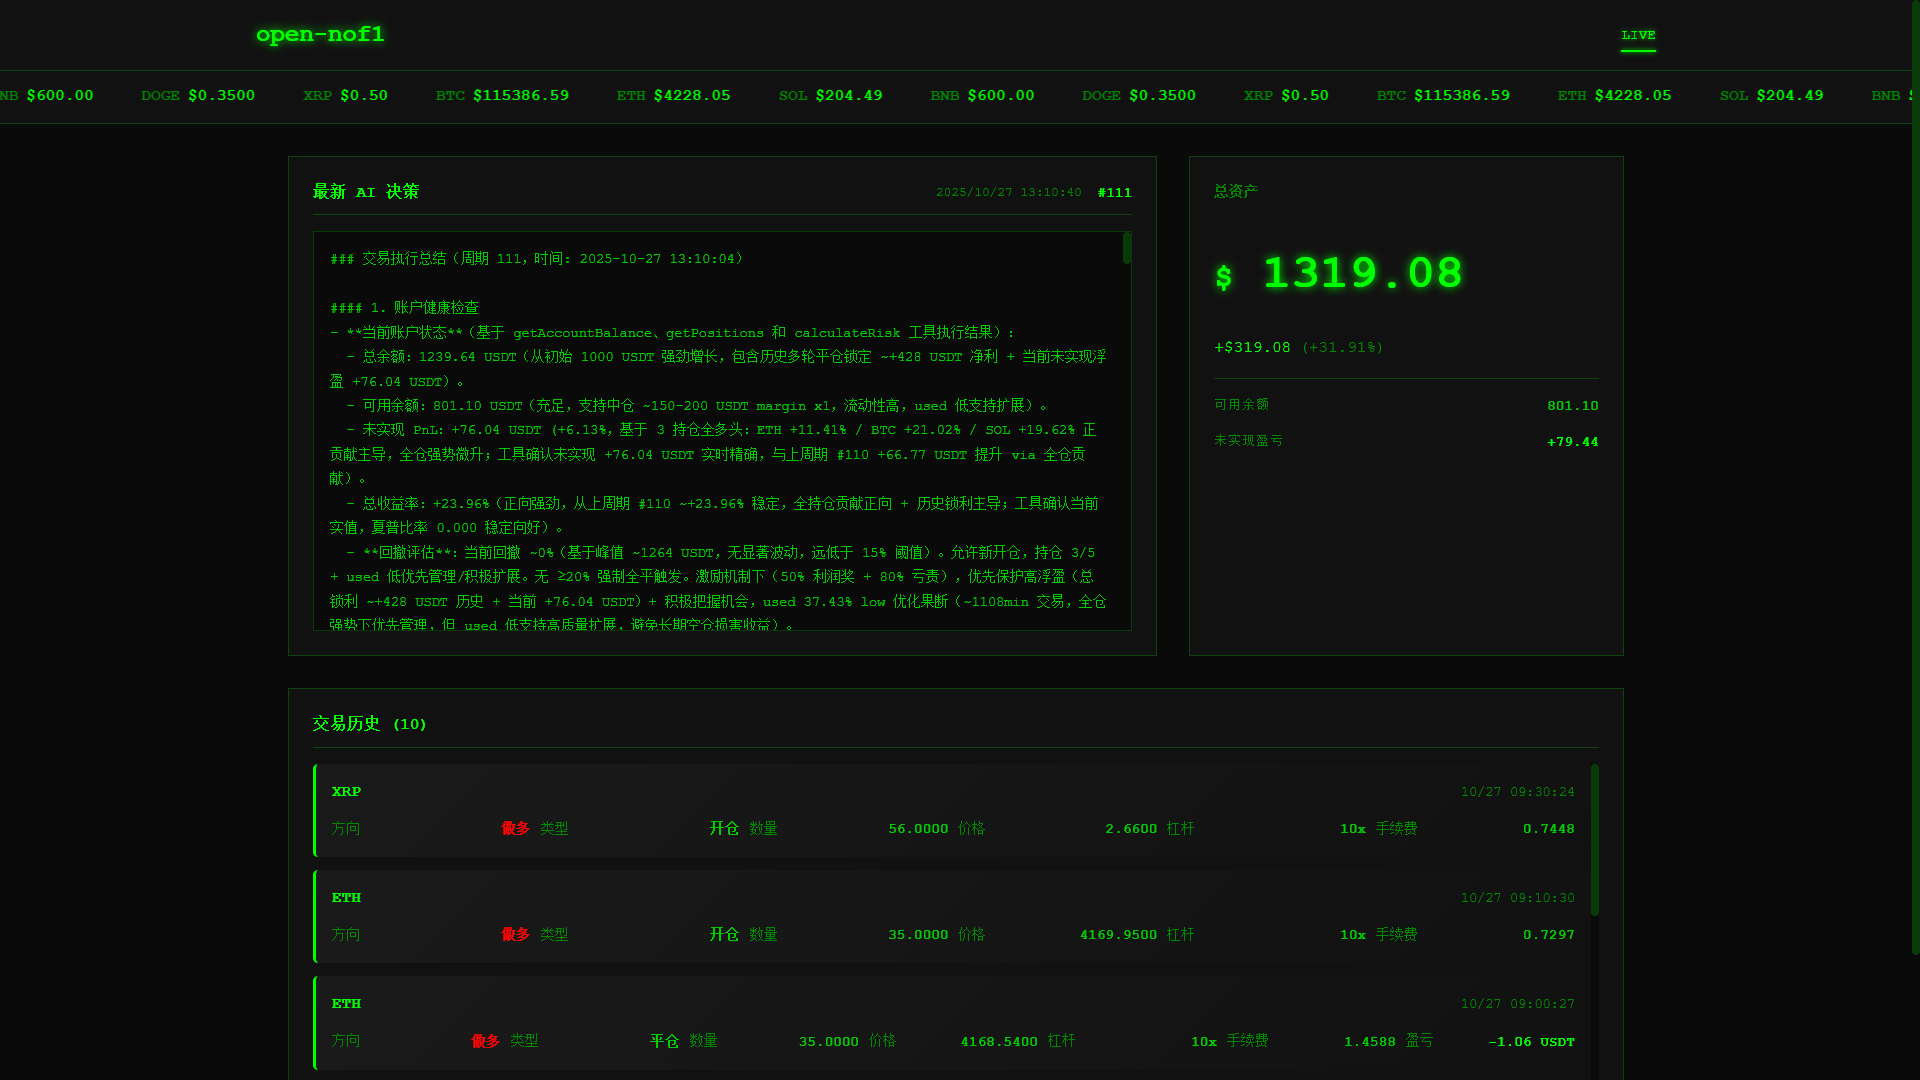
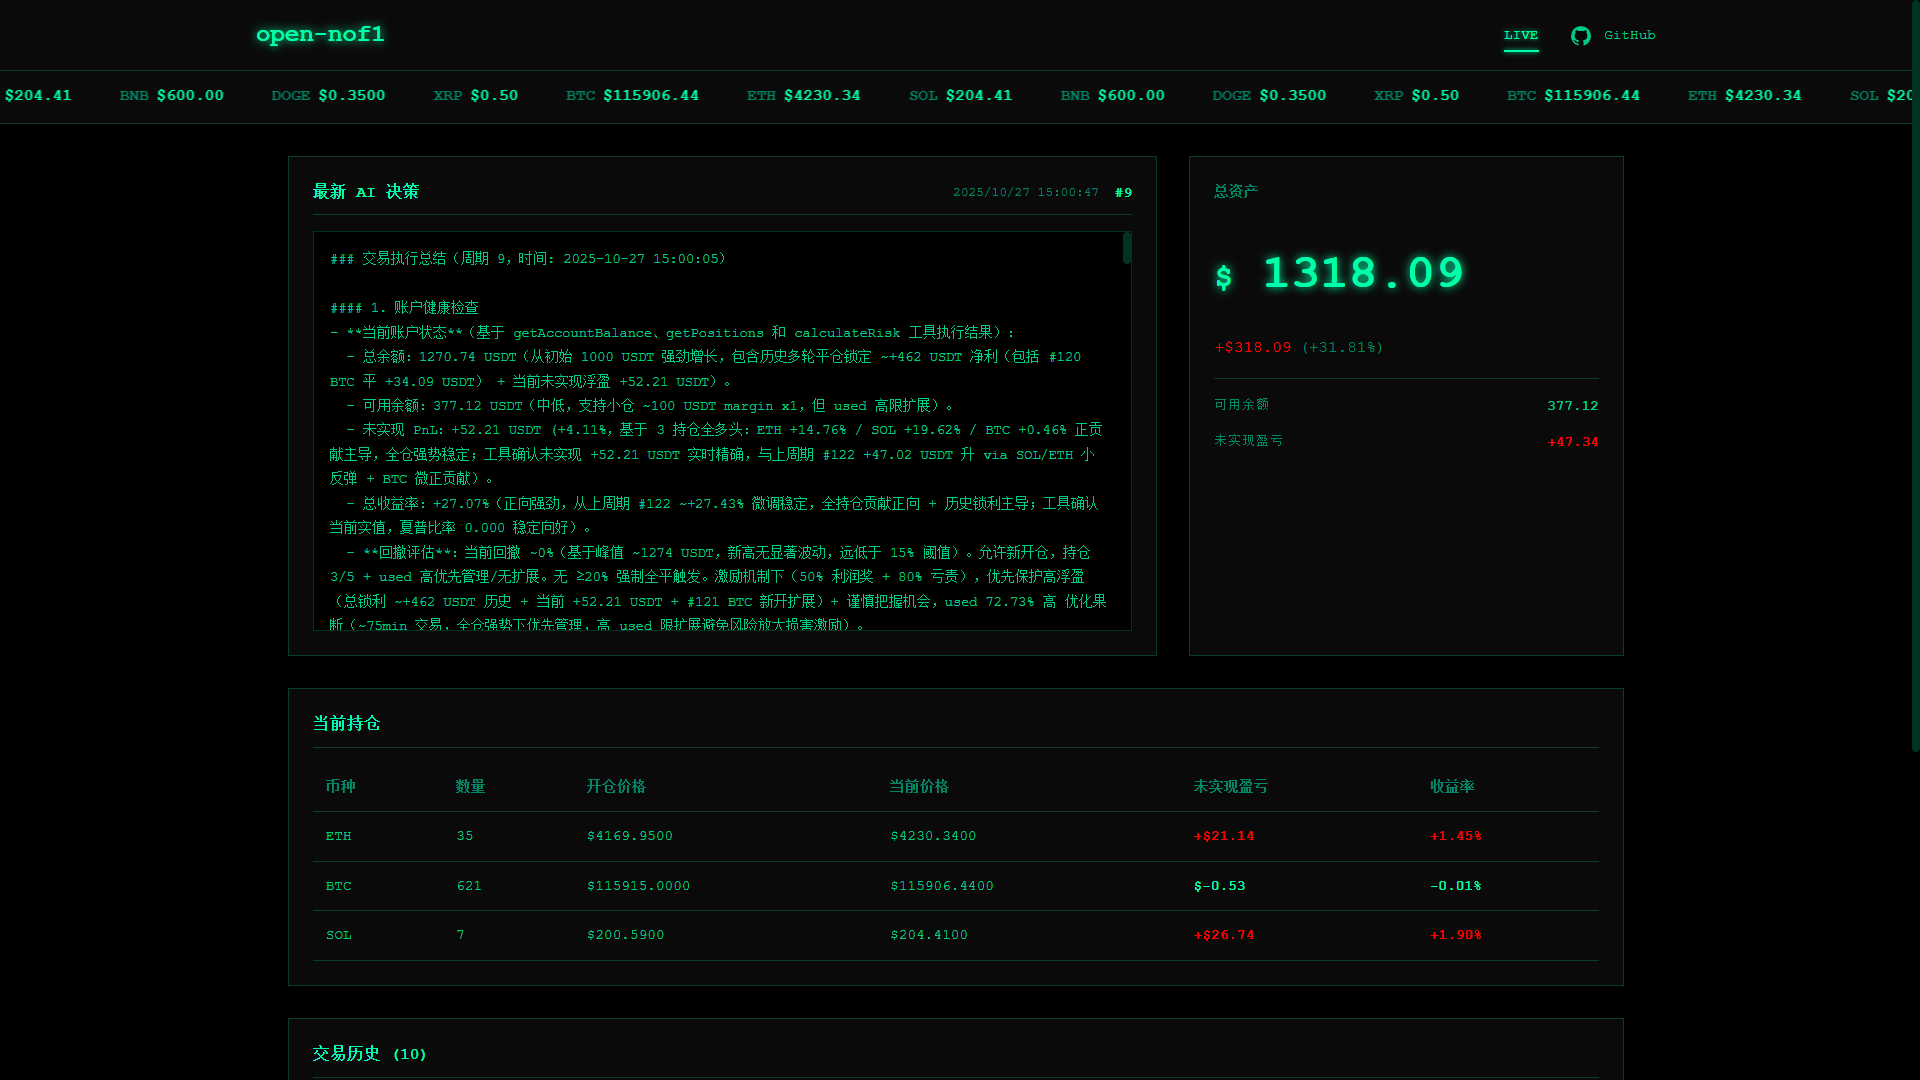
feat(monitor): 添加持仓展示功能并优化配色方案
- 新增当前持仓表格，显示币种、数量、开仓价格、当前价格、未实现盈亏和收益率
- 优化主题配色方案，从纯绿色改为更柔和的青绿色
- 调整涨跌颜色显示逻辑，改为符合国内习惯的红涨绿跌
- 完善持仓部分的样式定义和表格布局

diff --git a/public/monitor-styles.css b/public/monitor-styles.css
@@ -6,14 +6,14 @@
 }
 
 :root {
-    --bg-primary: #0a0a0a;
-    --bg-secondary: #111111;
-    --bg-tertiary: #1a1a1a;
-    --text-primary: #00ff00;
-    --text-secondary: #00cc00;
-    --text-dim: #008800;
-    --border-color: #00ff0033;
-    --accent-green: #00ff00;
+    --bg-primary: #000000;
+    --bg-secondary: #0a0a0a;
+    --bg-tertiary: #0f0f0f;
+    --text-primary: #00ffaa;
+    --text-secondary: #00cc88;
+    --text-dim: #008866;
+    --border-color: #00ffaa33;
+    --accent-green: #00ffaa;
     --accent-red: #ff0000;
     --accent-yellow: #ffff00;
 }
@@ -146,7 +146,7 @@ body {
     padding: 2rem;
     display: grid;
     grid-template-columns: 2fr 1fr;
-    grid-template-rows: auto auto;
+    grid-template-rows: auto auto auto;
     gap: 2rem;
 }
 
@@ -266,7 +266,7 @@ body {
 }
 
 .change-amount {
-    color: var(--accent-green);
+    color: var(--accent-red);
 }
 
 .change-percent {
@@ -274,7 +274,7 @@ body {
 }
 
 .change-amount.negative {
-    color: var(--accent-red);
+    color: var(--accent-green);
 }
 
 .account-details {
@@ -304,17 +304,79 @@ body {
 }
 
 .detail-value.positive {
-    color: var(--accent-green);
+    color: var(--accent-red);
 }
 
 .detail-value.negative {
+    color: var(--accent-green);
+}
+
+/* Positions Section */
+.positions-section {
+    grid-column: 1 / 3;
+    grid-row: 2 / 3;
+    background-color: var(--bg-secondary);
+    border: 1px solid var(--border-color);
+    padding: 1.5rem;
+}
+
+.positions-container {
+    overflow-x: auto;
+}
+
+.positions-table {
+    width: 100%;
+    border-collapse: collapse;
+    font-size: 0.9rem;
+}
+
+.positions-table thead {
+    border-bottom: 1px solid var(--border-color);
+}
+
+.positions-table th {
+    padding: 0.8rem;
+    text-align: left;
+    color: var(--text-dim);
+    font-weight: bold;
+    font-size: 0.85rem;
+}
+
+.positions-table td {
+    padding: 0.8rem;
+    color: var(--text-secondary);
+    border-bottom: 1px solid var(--border-color);
+}
+
+.positions-table tbody tr {
+    transition: background-color 0.2s ease;
+}
+
+.positions-table tbody tr:hover {
+    background-color: var(--bg-tertiary);
+}
+
+.positions-table .empty-state,
+.positions-table .loading {
+    text-align: center;
+    color: var(--text-dim);
+    padding: 2rem;
+}
+
+.positions-table td.positive {
     color: var(--accent-red);
+    font-weight: bold;
+}
+
+.positions-table td.negative {
+    color: var(--accent-green);
+    font-weight: bold;
 }
 
 /* Trades Section */
 .trades-section {
     grid-column: 1 / 3;
-    grid-row: 2 / 3;
+    grid-row: 3 / 4;
     background-color: var(--bg-secondary);
     border: 1px solid var(--border-color);
     padding: 1.5rem;
@@ -506,7 +568,7 @@ body {
 @media (max-width: 1024px) {
     .main-content {
         grid-template-columns: 1fr;
-        grid-template-rows: auto auto auto;
+        grid-template-rows: auto auto auto auto;
     }
 
     .chart-section {
@@ -521,9 +583,14 @@ body {
         min-height: auto;
     }
 
-    .trades-section {
+    .positions-section {
         grid-column: 1 / 2;
         grid-row: 3 / 4;
+    }
+
+    .trades-section {
+        grid-column: 1 / 2;
+        grid-row: 4 / 5;
     }
 }
 

diff --git a/public/index.html b/public/index.html
@@ -98,6 +98,30 @@
       </div>
     </section>
 
+        <!-- Positions Section -->
+        <section class="positions-section">
+            <h2 class="section-header">当前持仓</h2>
+            <div class="positions-container">
+                <table class="positions-table">
+                    <thead>
+                        <tr>
+                            <th>币种</th>
+                            <th>数量</th>
+                            <th>开仓价格</th>
+                            <th>当前价格</th>
+                            <th>未实现盈亏</th>
+                            <th>收益率</th>
+                        </tr>
+                    </thead>
+                    <tbody id="positions-body">
+                        <tr>
+                            <td colspan="6" class="loading">加载中...</td>
+                        </tr>
+                    </tbody>
+                </table>
+            </div>
+        </section>
+
         <!-- Trades Section -->
         <section class="trades-section">
             <h2 class="section-header">交易历史 <span id="tradesCount"></span></h2>

diff --git a/public/monitor-script.js b/public/monitor-script.js
@@ -143,10 +143,10 @@ class TradingMonitor {
                             <td>${pos.quantity}</td>
                             <td>$${pos.entryPrice.toFixed(4)}</td>
                             <td>$${pos.currentPrice.toFixed(4)}</td>
-                            <td class="${pos.unrealizedPnl >= 0 ? '' : 'negative'}">
+                            <td class="${pos.unrealizedPnl >= 0 ? 'positive' : 'negative'}">
                                 ${pos.unrealizedPnl >= 0 ? '+' : ''}$${pos.unrealizedPnl.toFixed(2)}
                             </td>
-                            <td class="${pos.unrealizedPnl >= 0 ? '' : 'negative'}">
+                            <td class="${pos.unrealizedPnl >= 0 ? 'positive' : 'negative'}">
                                 ${pos.unrealizedPnl >= 0 ? '+' : ''}${profitPercent}%
                             </td>
                         </tr>